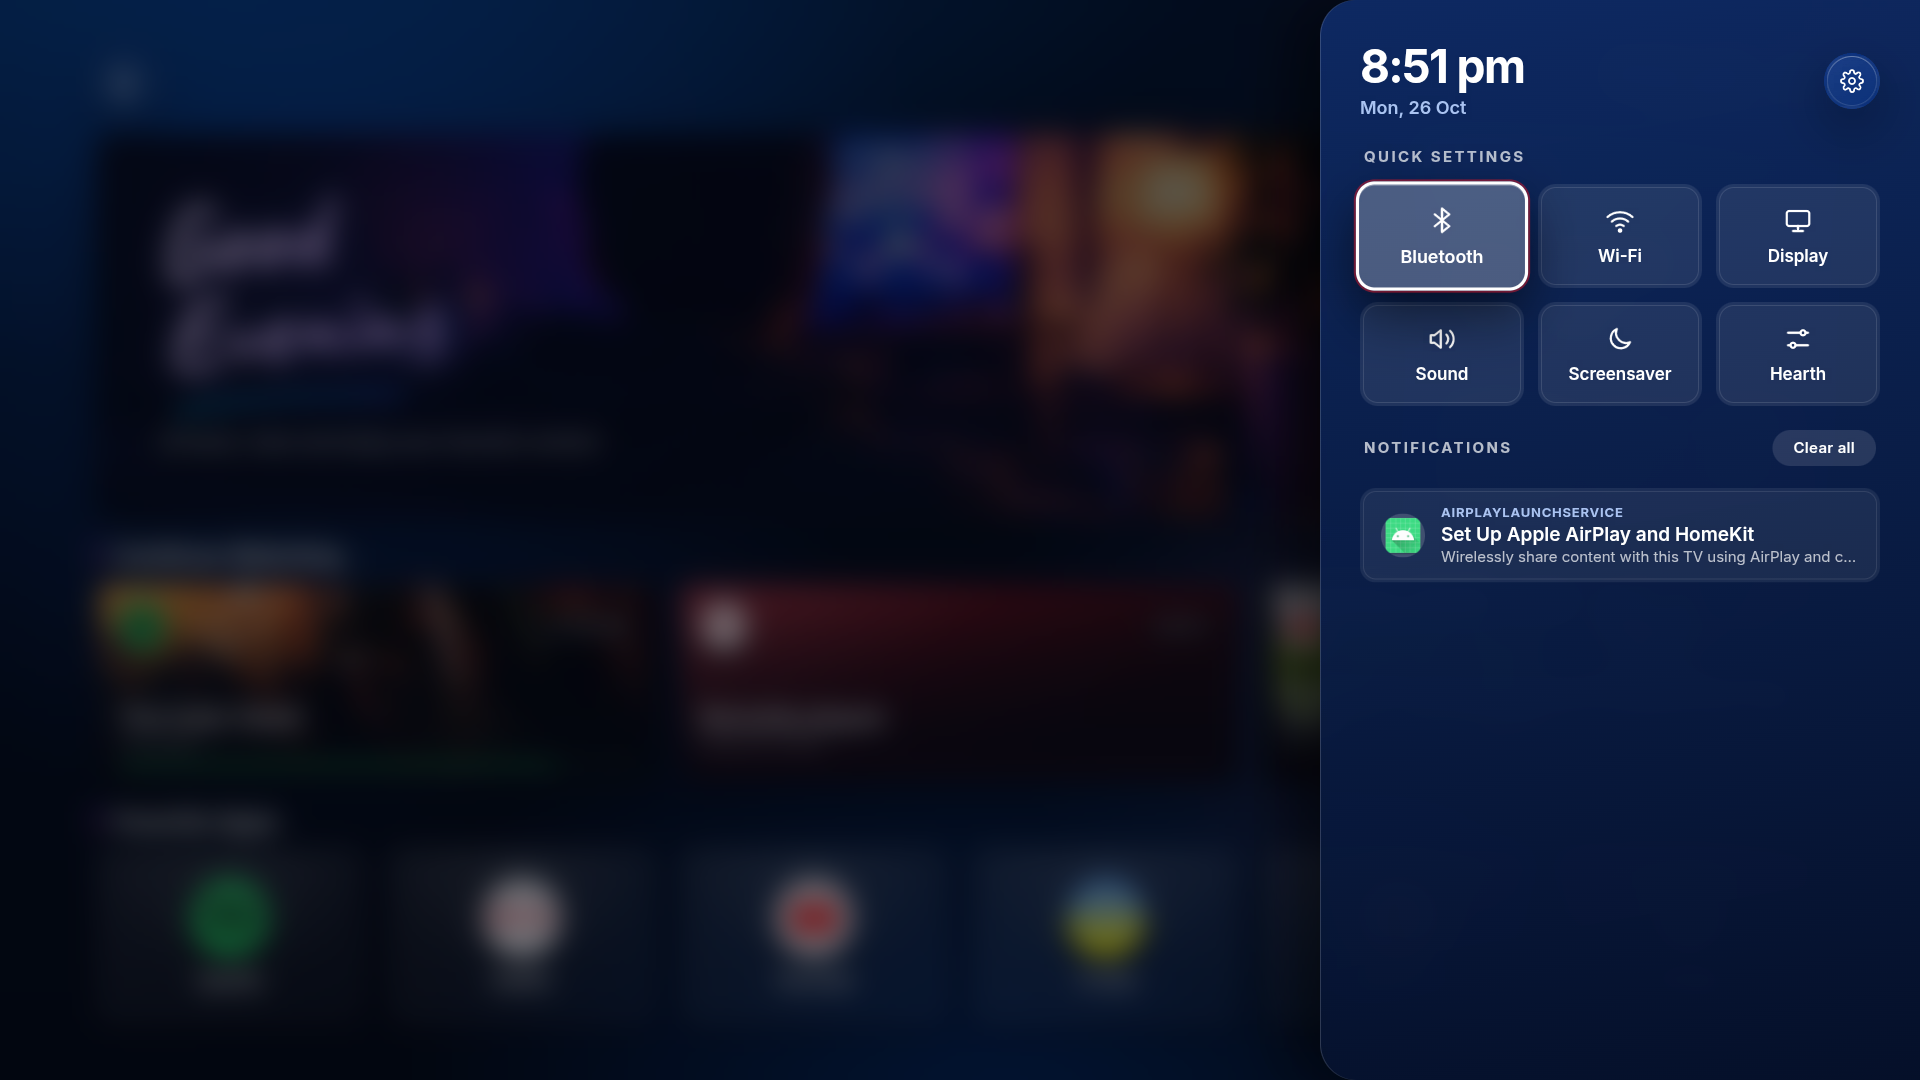
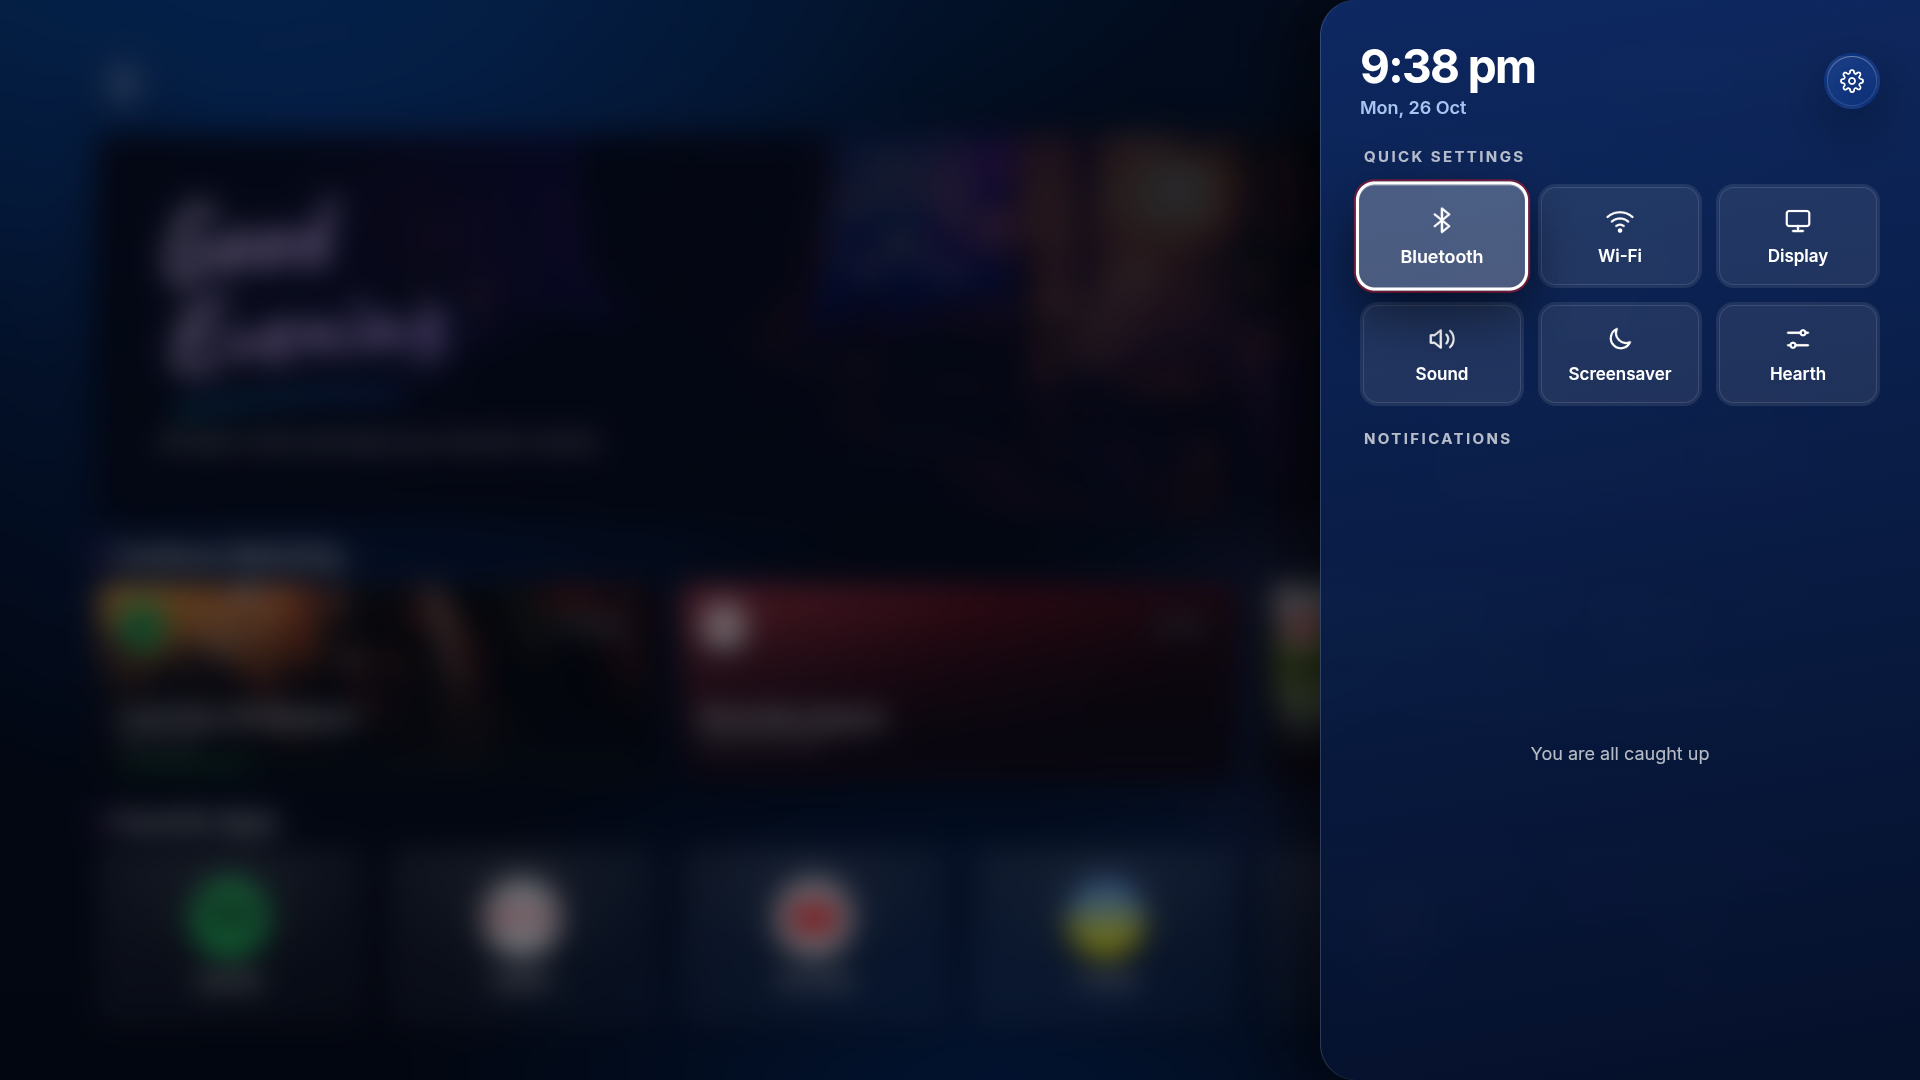
docs: update screenshots and mockup images with latest UI changes

diff --git a/README.md b/README.md
@@ -28,8 +28,10 @@
 - **Favorite Apps row**: round icons you choose, add, remove and reorder from **Settings → Manage favorites** or the app options menu.
 
 ### Quick settings sidebar
-- Press the remote's **Settings** button (see [Settings button](#settings-button)) or **Menu** to slide in a sidebar with the date and time, a **gear** that opens Android's full settings, and one-press shortcuts for **Bluetooth, Wi-Fi, Display, Sound and Screensaver**.
+- Press the remote's **Settings** button to slide in a sidebar with the date and time, a **gear** for Android's full settings, and one-press tiles for **Bluetooth, Wi-Fi, Display, Sound and Screensaver**, plus a **Hearth** tile for the launcher's own settings. **Menu** opens the same sidebar on any TV.
+- It works **over other apps**: press Settings inside Spotify or YouTube and the sidebar appears on top of that app, which stays visible behind it. Press Settings again, or Back, to close it.
 - A **Notifications** section lists recent notifications from other apps. Press OK on one to open its app and dismiss it, or choose **Clear all**. It needs Now playing access (see below).
+- Over other apps this needs a one-time setup on some TVs, see [Settings button](#settings-button).
 
 ![Quick settings sidebar](docs/screenshots/quick-settings.png)
 
@@ -48,8 +50,10 @@
 | Home | Quick settings |
 | :---: | :---: |
 | <img src="docs/screenshots/home.png" alt="Home screen" width="440"> | <img src="docs/screenshots/quick-settings.png" alt="Quick settings sidebar" width="440"> |
-| **Settings** | **Screen saver** |
-| <img src="docs/screenshots/settings.png" alt="Settings" width="440"> | <img src="docs/screenshots/saver.png" alt="Ambient screen saver" width="440"> |
+| **Settings** | **Manage favorites** |
+| <img src="docs/screenshots/settings.png" alt="Settings" width="440"> | <img src="docs/screenshots/favorites.png" alt="Manage favorites" width="440"> |
+| **App options** | **Screen saver** |
+| <img src="docs/screenshots/app-options.png" alt="App options menu" width="440"> | <img src="docs/screenshots/saver.png" alt="Ambient screen saver" width="440"> |
 
 ## Installation
 
@@ -118,12 +122,26 @@ The service never reads your notifications; it only exists to unlock media sessi
 
 ## Settings button
 
-Many TVs (TCL among them) handle the remote's **Settings** key in firmware and open their own Settings app before any launcher sees it. Hearth ships a tiny accessibility service, **Hearth Settings key**, that catches only that key so it can open the quick settings sidebar. It reads no screen content.
+Inside the launcher, **Menu** and the remote's Settings button open the quick settings sidebar by themselves. On many TVs they do not reach the launcher while another app is open, and some firmware (TCL, for one) launches its own Settings app, or ignores the key. Hearth ships a small accessibility service, **Hearth Settings key**, that fills the gap:
 
-1. In the launcher: **Settings → Settings button shortcut** (opens Android's Accessibility settings), then turn on **Hearth Settings key**; or
-2. Over ADB: `adb shell settings put secure enabled_accessibility_services com.glasstv.launcher/com.glasstv.launcher.KeyService` and `adb shell settings put secure accessibility_enabled 1`.
+- it catches the button's key code (`KEYCODE_NOTIFICATION` on TCL remotes) before the app in front gets it, and opens or closes the sidebar;
+- if the TV launches its own Settings app instead (`KEYCODE_SETTINGS`), it closes that and opens the sidebar. Settings screens opened from Hearth's own buttons are left alone;
+- it reads no screen content, only which app's window opened and the one key.
 
-Without it, the **Menu** key still opens the sidebar on every TV, and the Settings key works as-is on TVs that pass it to the launcher.
+### Turn it on
+
+1. In the launcher: **Settings → Settings button shortcut** (opens Android's Accessibility settings), then turn on **Hearth Settings key** and accept the key-observation prompt.
+2. **After every update of the APK, switch it off and on once.** Android keeps it listed as enabled but stops running it when the app is replaced.
+
+### TCL and other TVs that block background apps
+
+TCL's firmware refuses to start accessibility services for apps without the "auto start" permission, so the toggle stays on **Off** and the log says `forbid bind service … OP_AUTO_START`. Allow it once from a computer, then switch the service off and on:
+
+```bash
+adb shell appops set com.glasstv.launcher APP_AUTO_START allow
+```
+
+Without the service, the **Menu** key and the in-launcher gear still open the sidebar on the home screen.
 
 ## Using it
 
@@ -131,7 +149,7 @@ Without it, the **Menu** key still opens the sidebar on every TV, and the Settin
 | --- | --- |
 | **D-pad** | Move between apps and settings |
 | **OK** | Open the selected app or setting |
-| **Settings** (or **Menu**) | Quick settings sidebar |
+| **Settings** (or **Menu**) | Quick settings sidebar. Press again to close it |
 | **Hold OK** on an app | App options: open, favorite, move, uninstall or disable, app info |
 | **Back** | Close a menu or go back to Home |
 | **Search / voice button** | Voice search |
@@ -225,8 +243,10 @@ glass-tv-launcher/
 │       │   ├── LauncherBridge.kt  ← app list, launch, uninstall, media sessions, settings shortcuts
 │       │   ├── IdleController.kt  ← music-aware idle detection and ambient screen-saver timing
 │       │   ├── Weather.kt         ← IP location + Open-Meteo hourly forecast
+│       │   ├── QuickSettingsActivity.kt ← see-through sidebar shown over other apps
+│       │   ├── JsHost.kt          ← lets the bridge talk to either web activity
 │       │   ├── MediaListener.kt   ← notification listener: media sessions and sidebar notifications
-│       │   └── KeyService.kt      ← accessibility service that catches the remote Settings key
+│       │   └── KeyService.kt      ← accessibility service that catches the remote's Settings button
 │       └── res/                   ← app icon, TV banner, theme, colours
 ├── build.gradle.kts · settings.gradle.kts · gradle/ · gradlew(.bat)
 └── README.md
@@ -243,6 +263,8 @@ The interface follows the Red Star Standard brand system: brand navy `#013480`, 
 - The APK is **debug-signed**, so it installs by sideloading only. To update, install the newer APK over it (`adb install -r`); it keeps your settings.
 - Android only exposes the item that is *currently active* in an app. The Continue Watching cards therefore remember the last thing the launcher saw. They cannot show a complete watch history, and opening a card opens the app, not the specific song or video.
 - **Netflix** (tested with 13.2.1 on Android TV) publishes a media session with a playback state but **no title or artwork**, and Android gives no app access to your Netflix account or its profiles (for example "blain"), so the launcher cannot read your watch history. Where the TV publishes a **Watch Next** row (Google TV home), the Netflix card shows the latest entry from it; otherwise it shows "Playing/Paused on Netflix" or "Recently played". Spotify and YouTube expose full metadata.
+- The sidebar over other apps is dimmed rather than blurred, because a see-through window cannot blur another app, and the app behind it is paused while it is open.
+- Keys injected over ADB (`adb shell input keyevent`) do not reach accessibility services, so the Settings-button shortcut can only be tested with the real remote.
 - The notification list shows only what other apps currently have posted, skips ongoing background-service notices, and needs Now playing access.
 - Glass blur can be heavy on budget TV hardware. If it feels slow, switch off **Settings → Glass effects**.
 - Weather needs an internet connection. IP-based location is approximate (usually the city), so pin `weather.lat`/`weather.lon` if the forecast is for the wrong place. No API key is needed.
